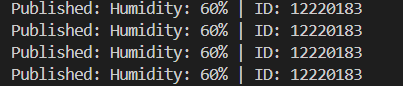
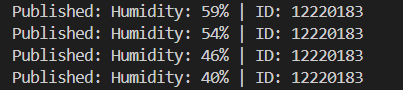
done 3

diff --git a/Publisher/publisher_humidity.py b/Publisher/publisher_humidity.py
@@ -1,5 +1,6 @@
 import paho.mqtt.client as mqtt
 import time
+import random
 
 student_id = "12220183"
 

diff --git a/Publisher/publisher_people.py b/Publisher/publisher_people.py
@@ -1,5 +1,6 @@
 import paho.mqtt.client as mqtt
 import time
+import random
 
 student_id = "12220183"
 

diff --git a/Publisher/publisher_temp.py b/Publisher/publisher_temp.py
@@ -1,5 +1,6 @@
 import paho.mqtt.client as mqtt
 import time
+import random
 
 student_id = "12220183"
 
